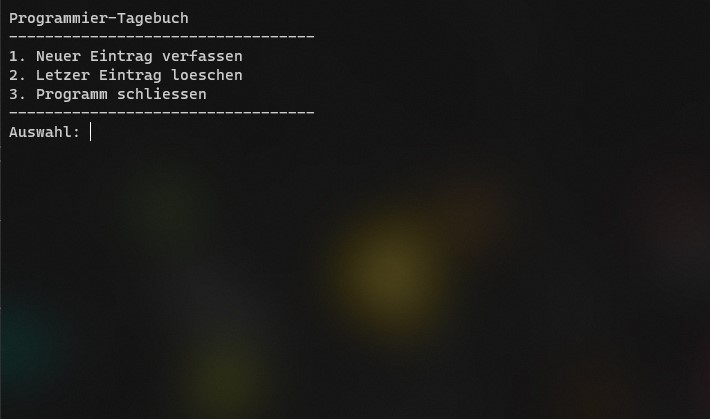
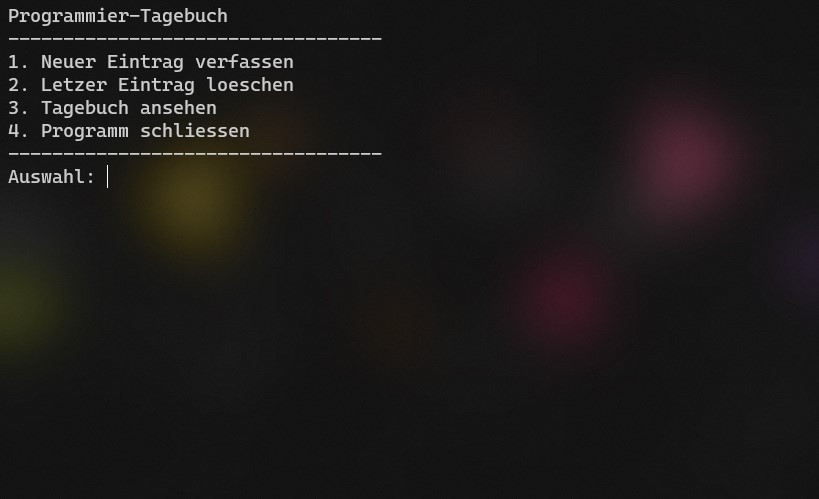
neues bild

diff --git a/scr/hdhsp.cpp b/scr/hdhsp.cpp
@@ -23,9 +23,8 @@ int main(){
     std::tm* now = std::localtime(&t); //Konvertiert Zeit
 do {
 valMenu = menu();
-system("cls");
 if (valMenu == 1) {
-    
+    system("cls");
     cout << "Hast du heute schon programmiert?(y/n):";
     cin >> answer;
 
@@ -50,6 +49,7 @@ if(answer == "y") {
     }
 
     else if(valMenu == 2) {
+        system("cls");
         string sure;
         cout << "Bist du dir sicher, dass du den letzten Eintrag loeschen willst?(y/n):";
         cin >> sure;
@@ -62,6 +62,7 @@ if(answer == "y") {
         }
     }
     else if(valMenu == 3) {
+        system("cls");
         displayDiary();
         system("pause");
         system("cls");
@@ -74,7 +75,6 @@ if(answer == "y") {
     else {
         system("cls");
         cout << "Falsche Eingabe!\n";
-        system("pause");
         system("cls");
     }
 }
